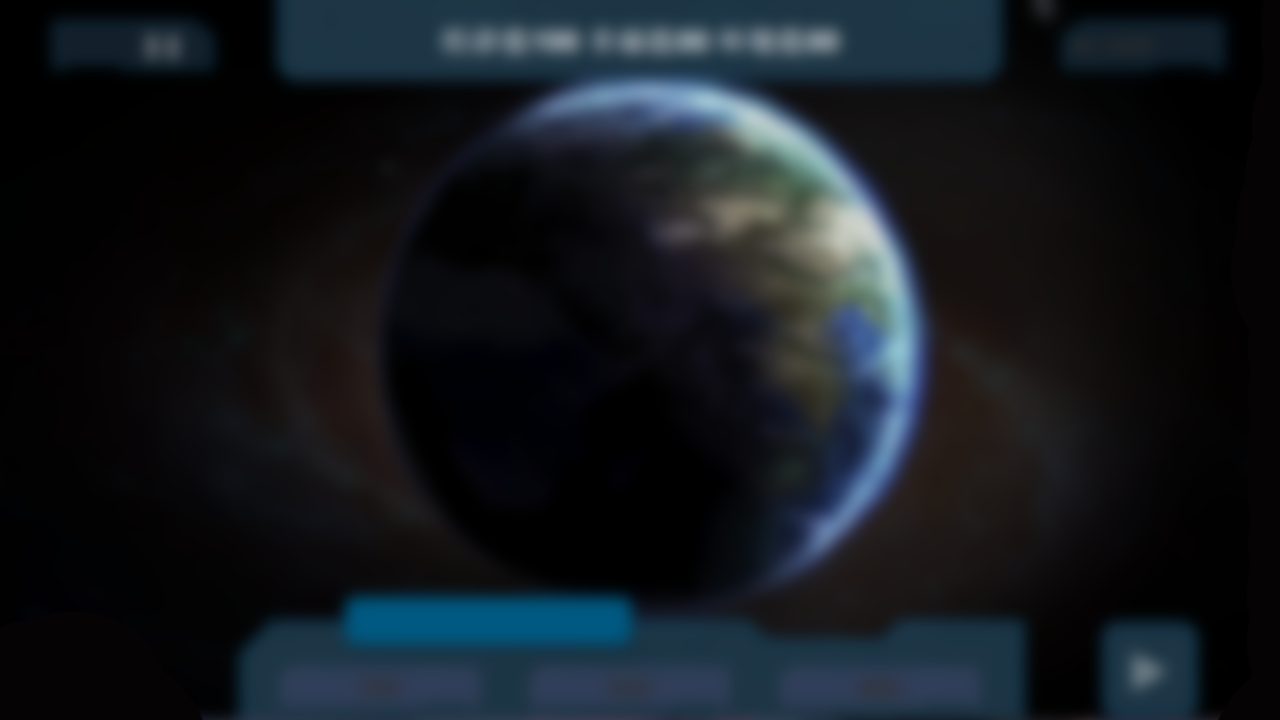
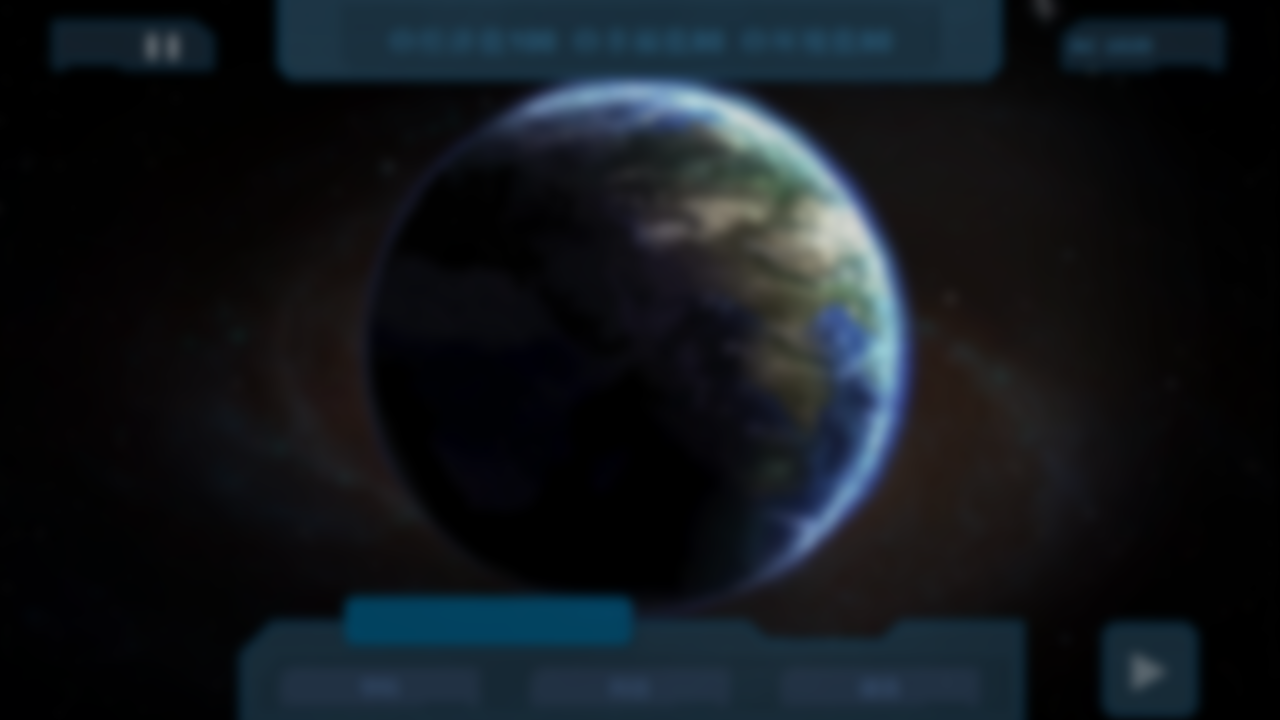
细节修正，小bug修复

diff --git a/Game1/src/ui/GameWindow.java b/Game1/src/ui/GameWindow.java
@@ -28,7 +28,12 @@ import javax.swing.JLayeredPane;
 import javax.swing.JPanel;
 import javax.swing.JTextArea;
 import javax.swing.JTextField;
+import javax.swing.JTextPane;
+import javax.swing.SwingConstants;
 import javax.swing.Timer;
+import javax.swing.text.SimpleAttributeSet;
+import javax.swing.text.StyleConstants;
+import javax.swing.text.StyledDocument;
 
 import com.sun.org.apache.bcel.internal.generic.NEW;
 
@@ -61,8 +66,8 @@ public class GameWindow extends JFrame {
 	static JLabel blockLabel;
 	JLabel label2;
 	PlaneLabel planetLabel2;
-	JTextArea accidenTextArea;
-	ImageButton[] bottombottons = new ImageButton[3];
+	JTextPane accidenPane;
+	static ImageButton[] bottombottons = new ImageButton[3];
 	ImageButton roundButton;
 	ImageButton accidentButton;
 	TopPanel topPanel;
@@ -84,6 +89,7 @@ public class GameWindow extends JFrame {
 	Timer starTimer;
 	ImageButton[] imageButton = new ImageButton[3];
 	int v = 1;
+	Bomb bom;
 
 	public GameWindow(GraphicsConfiguration gc) {
 		super(gc);
@@ -128,7 +134,7 @@ public class GameWindow extends JFrame {
 		blockLabel.setBounds(0, 0, 1280, 720);
 		blockLabel.setVisible(false);
 		frontPanel.add(blockLabel, new Integer(-7));
-		//星空图片
+		// 星空图片
 		starLabel1 = new JLabel(new ImageIcon("image/back1.png"));
 		starLabel1.setBounds(0, 0, 2560, 720);
 		frontPanel.add(starLabel1, new Integer(-40));
@@ -136,18 +142,17 @@ public class GameWindow extends JFrame {
 		starLabel2.setBounds(2560, 0, 2560, 720);
 		frontPanel.add(starLabel2, new Integer(-41));
 		staranim();
-		
-		//光晕图片
+
+		// 光晕图片
 		planetLabel2 = new PlaneLabel(new ImageIcon("image/planet2.png"));
-		planetLabel2.setBounds(305, 50, planetLabel2.getIcon().getIconWidth(), planetLabel2.getIcon().getIconHeight());
-		
+		planetLabel2.setBounds(305, 50, planetLabel2.getIcon().getIconWidth(),
+				planetLabel2.getIcon().getIconHeight());
+
 		planetPanel = new JPanel();
 		planetPanel.setBounds(305, 40, 665, 605);
 		planetPanel.setOpaque(false);
 		planetPanel.add(planetLabel2);
-		frontPanel.add(planetPanel,new Integer(-29));
-		
-		
+		frontPanel.add(planetPanel, new Integer(-29));
 
 		// 标题文字
 		labelTitle = new JLabel(backgroundTitle);
@@ -159,7 +164,7 @@ public class GameWindow extends JFrame {
 		imagePanel.setSize(background.getIconWidth(),
 				background.getIconHeight());
 		imagePanel.setLocation(200, 0);
-		frontPanel.add(labelTitle,new Integer(-17));
+		frontPanel.add(labelTitle, new Integer(-17));
 
 		// 创建开始界面按钮
 		for (int i = 0; i <= 2; i++) {
@@ -169,8 +174,8 @@ public class GameWindow extends JFrame {
 			imageButton[i].setHorizontalTextPosition(JButton.CENTER);
 			imageButton[i].setVerticalTextPosition(JButton.CENTER);
 			imageButton[i].setFont(new Font("微软雅黑", Font.BOLD, 20));
-			imageButton[i].setForeground(new Color(0,89,130));
-			frontPanel.add(imageButton[i],new Integer(-18));
+			imageButton[i].setForeground(new Color(0, 89, 130));
+			frontPanel.add(imageButton[i], new Integer(-18));
 		}
 		imageButton[0].setText("开始游戏");
 
@@ -188,7 +193,7 @@ public class GameWindow extends JFrame {
 		timeField.setEditable(false);
 		timeField.setOpaque(false);
 		timeField.setFont(new Font("微软雅黑", Font.BOLD, 20));
-		timeField.setForeground(new Color(42,96,128));
+		timeField.setForeground(new Color(42, 96, 128));
 		timeField.setText("AC " + time);
 		timeLabel.add(timeField);
 		frontPanel.add(timeLabel, new Integer(-16));
@@ -225,8 +230,8 @@ public class GameWindow extends JFrame {
 		lightPanel.add(light1);
 		lightPanel.add(light2);
 		lightPanel.add(light3);
-		frontPanel.add(lightPanel,new Integer(-30));
-		frontPanel.add(planetLabel,new Integer(-31));
+		frontPanel.add(lightPanel, new Integer(-30));
+		frontPanel.add(planetLabel, new Integer(-31));
 
 		// 创建顶部面板
 		topPanel = new TopPanel();
@@ -243,7 +248,7 @@ public class GameWindow extends JFrame {
 		for (int i = 0; i <= 2; i++) {
 			bottombottons[i] = new ImageButton(start1, start2, start3, false);
 			bottombottons[i].setLocation(40 + 250 * i, 70);
-			bottombottons[i].setForeground(new Color(53,76,107));
+			bottombottons[i].setForeground(new Color(53, 76, 107));
 			bottombottons[i].setHorizontalTextPosition(JButton.CENTER);
 			bottombottons[i].setVerticalTextPosition(JButton.CENTER);
 			bottombottons[i].setFont(new Font("微软雅黑", Font.BOLD, 20));
@@ -283,31 +288,39 @@ public class GameWindow extends JFrame {
 		accidentLabel = new JLabel(new ImageIcon("image/accidentpanel.png"));
 		accidentLabel.setBounds(400, 250, accidentLabel.getIcon()
 				.getIconWidth(), accidentLabel.getIcon().getIconHeight());
+		accidentLabel.setVisible(false);
 		accidentButton = new ImageButton(accident1, accident2, accident3, false);
 		accidentButton.setLocation(140, 180);
 		accidentButton.setText("确认");
 		accidentButton.setHorizontalTextPosition(JButton.CENTER);
 		accidentButton.setVerticalTextPosition(JButton.CENTER);
 		accidentButton.setFont(new Font("微软雅黑", Font.BOLD, 20));
-		accidentButton.setForeground(new Color(117,16,0));
+		accidentButton.setForeground(new Color(117, 16, 0));
 		accidentButton.addActionListener(new ActionListener() {
 
 			@Override
 			public void actionPerformed(ActionEvent arg0) {
 				// TODO 自动生成的方法存根
 				accidentLabel.setVisible(false);
+				blockLabel.setVisible(false);
 			}
 		});
 		accidentLabel.add(accidentButton);
 		frontPanel.add(accidentLabel, 0);
-		accidenTextArea = new JTextArea();
-		accidenTextArea.setOpaque(false);
-		accidenTextArea.setBorder(null);
-		accidenTextArea.setEditable(false);
-		accidenTextArea.setBounds(24, 20, 430, 150);
-		accidenTextArea.setFont(new Font("宋体", Font.PLAIN, 17));
-		accidenTextArea.setForeground(new Color(117,16,0));
-		accidentLabel.add(accidenTextArea);
+		accidenPane = new JTextPane();
+		accidenPane.setOpaque(false);
+		accidenPane.setBorder(null);
+		accidenPane.setBounds(24, 80, 430, 150);
+		accidenPane.setEditable(false);
+		accidenPane.setFocusable(false);
+		final SimpleAttributeSet bSet = new SimpleAttributeSet();  
+        StyleConstants.setAlignment(bSet, StyleConstants.ALIGN_CENTER);    
+        StyleConstants.setFontFamily(bSet, "宋体 bold"); 
+        StyleConstants.setForeground(bSet, new Color(117, 16, 0)); 
+        StyleConstants.setFontSize(bSet, 24);
+//		accidenPane.setFont(new Font("宋体", Font.BOLD, 23));
+//		accidenPane.setForeground(new Color(117, 16, 0));
+		accidentLabel.add(accidenPane);
 
 		// 按钮功能
 		imageButton[0].addActionListener(new ActionListener() {
@@ -371,6 +384,9 @@ public class GameWindow extends JFrame {
 					}
 				});
 				sciTimer.start();
+				for (ImageButton im : bottombottons) {
+					im.setVisible(false);
+				}
 			}
 		});
 		bottombottons[1].addActionListener(new ActionListener() {
@@ -402,6 +418,9 @@ public class GameWindow extends JFrame {
 					}
 				});
 				tecTimer.start();
+				for (ImageButton im : bottombottons) {
+					im.setVisible(false);
+				}
 			}
 		});
 		bottombottons[2].addActionListener(new ActionListener() {
@@ -430,6 +449,9 @@ public class GameWindow extends JFrame {
 					}
 				});
 				objtimer.start();
+				for (ImageButton im : bottombottons) {
+					im.setVisible(false);
+				}
 			}
 		});
 		pauseButton.addActionListener(new ActionListener() {
@@ -480,10 +502,21 @@ public class GameWindow extends JFrame {
 							setCursor(cursor);
 							mouseTimer.stop();
 							starTimer.setDelay(100);
-							topPanel.topLabel.setText("经济值" + Begin.EV + "  " + "幸福值"
-									+ Begin.HV + "  " + "环境值" + Begin.EMV);
+							topPanel.topLabel.setText("◎经济值"+Begin.EV+"  "+"◎幸福值"+Begin.HV+"  "+"◎环境值"+Begin.EMV);
 
 							timeField.setText("AC " + time);
+							
+							String s = bom.bomb();
+							if (s != "") {
+								accidenPane.setText(s);
+								StyledDocument doc = accidenPane.getStyledDocument();  
+						         doc.setParagraphAttributes(0, 104, bSet, false); 
+						         blockLabel.setVisible(true);
+								accidentLabel.setVisible(true);
+							}
+							if (Begin.EV <= 0 || Begin.HV <= 0 || Begin.EMV <= 0) {
+								// lose!
+							}
 						}
 						i++;
 					}
@@ -494,19 +527,13 @@ public class GameWindow extends JFrame {
 				Environment env = new Environment();
 				Happiness hap = new Happiness();
 				SciPoint poi = new SciPoint();
-				Bomb bom = new Bomb();
-				String s = bom.bomb();
+				bom = new Bomb();
+				
 				eco.economy();
 				env.environment();
 				hap.happiness();
 				poi.point();
-				if(s!=""){
-					accidenTextArea.setText(s);
-					accidentLabel.setVisible(true);
-				}
-				if(Begin.EV<=0||Begin.HV<=0||Begin.EMV<=0){
-					//lose!
-				}
+				
 				time++;
 
 			}
@@ -1130,15 +1157,15 @@ public class GameWindow extends JFrame {
 	}
 
 	public KeyEventPostProcessor getMyKeyEventHandler() {
-		return new KeyEventPostProcessor() {  // 返回一个实现KeyEventPostProcessor接口的匿名内部类。
-			public boolean postProcessKeyEvent(KeyEvent e) {  // 实现postProcessKeyEvent方法
+		return new KeyEventPostProcessor() { // 返回一个实现KeyEventPostProcessor接口的匿名内部类。
+			public boolean postProcessKeyEvent(KeyEvent e) { // 实现postProcessKeyEvent方法
 
-				if (e.getKeyCode() == KeyEvent.VK_E) {  // 根据你的需要监听相应的动作。
+				if (e.getKeyCode() == KeyEvent.VK_E) { // 根据你的需要监听相应的动作。
 					for (ImageButton im : TecPanel.tecButton) {
 						im.setavalible(true);
 						im.setVisible(true);
 					}
-					for(JLabel j:TecPanel.lineLabels) {
+					for (JLabel j : TecPanel.lineLabels) {
 						j.setVisible(true);
 					}
 				}
@@ -1175,7 +1202,7 @@ public class GameWindow extends JFrame {
 						roundButton.setVisible(true);
 						pauseButton.setVisible(true);
 						timeLabel.setVisible(true);
-						
+
 					} else {
 						j++;
 					}
@@ -1220,7 +1247,7 @@ public class GameWindow extends JFrame {
 							im.setVisible(false);
 						}
 						labelTitle.setVisible(true);
-						
+
 					} else {
 						j++;
 					}
@@ -1237,35 +1264,33 @@ public class GameWindow extends JFrame {
 		});
 		blackTimer.start();
 	}
-	void staranim(){
+
+	void staranim() {
 		starTimer = new Timer(100, new ActionListener() {
 			int i = 0;
-			int j  = 1;
-			
+			int j = 1;
+
 			@Override
 			public void actionPerformed(ActionEvent arg0) {
 				// TODO 自动生成的方法存根
 
-				if(i<=2560) {
-					starLabel1.setLocation(0-i, 0);
-					starLabel2.setLocation(2560-i, 0);
-					
-				}
-				else {
-					i=-1;
+				if (i <= 2560) {
+					starLabel1.setLocation(0 - i, 0);
+					starLabel2.setLocation(2560 - i, 0);
+
+				} else {
+					i = -1;
 				}
 				i++;
-				if(j<=100) {
+				if (j <= 100) {
 					PlaneLabel.trance = j;
-					if(planetLabel2!=null) {
+					if (planetLabel2 != null) {
 						planetLabel2.repaint();
 					}
-				}
-				else if (j>100&&j<=200) {
-					PlaneLabel.trance = 200-j;
-				}
-				else {
-					 j= -1;
+				} else if (j > 100 && j <= 200) {
+					PlaneLabel.trance = 200 - j;
+				} else {
+					j = -1;
 				}
 
 				j++;

diff --git a/Game1/src/ui/ObjectPanel.java b/Game1/src/ui/ObjectPanel.java
@@ -91,6 +91,9 @@ public class ObjectPanel extends JLabel {
 					}
 				});
 				t.start();
+				for (ImageButton im : GameWindow.bottombottons) {
+					im.setVisible(true);
+				}
 			}
 		});
 		add(confirmButton);
